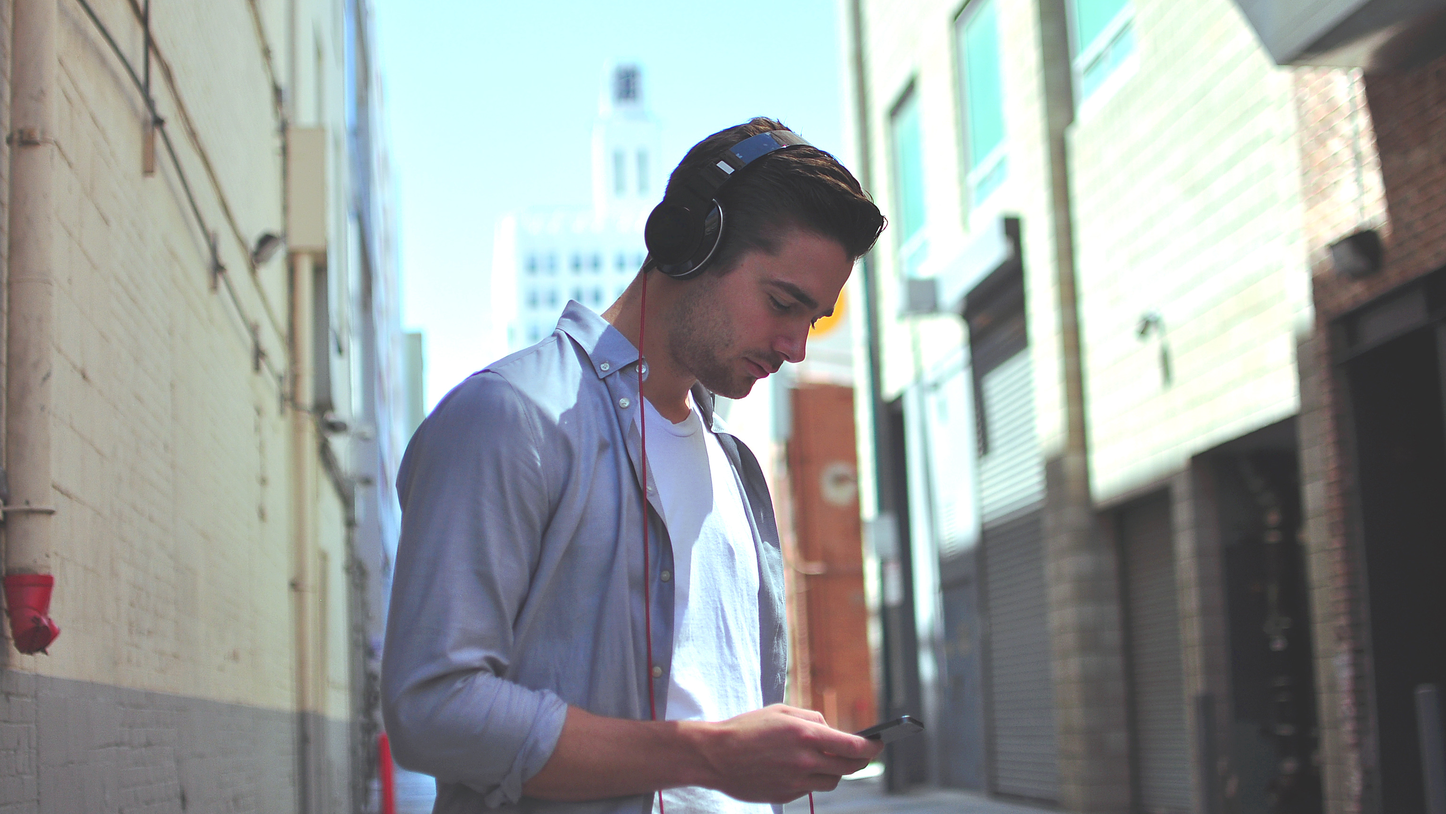
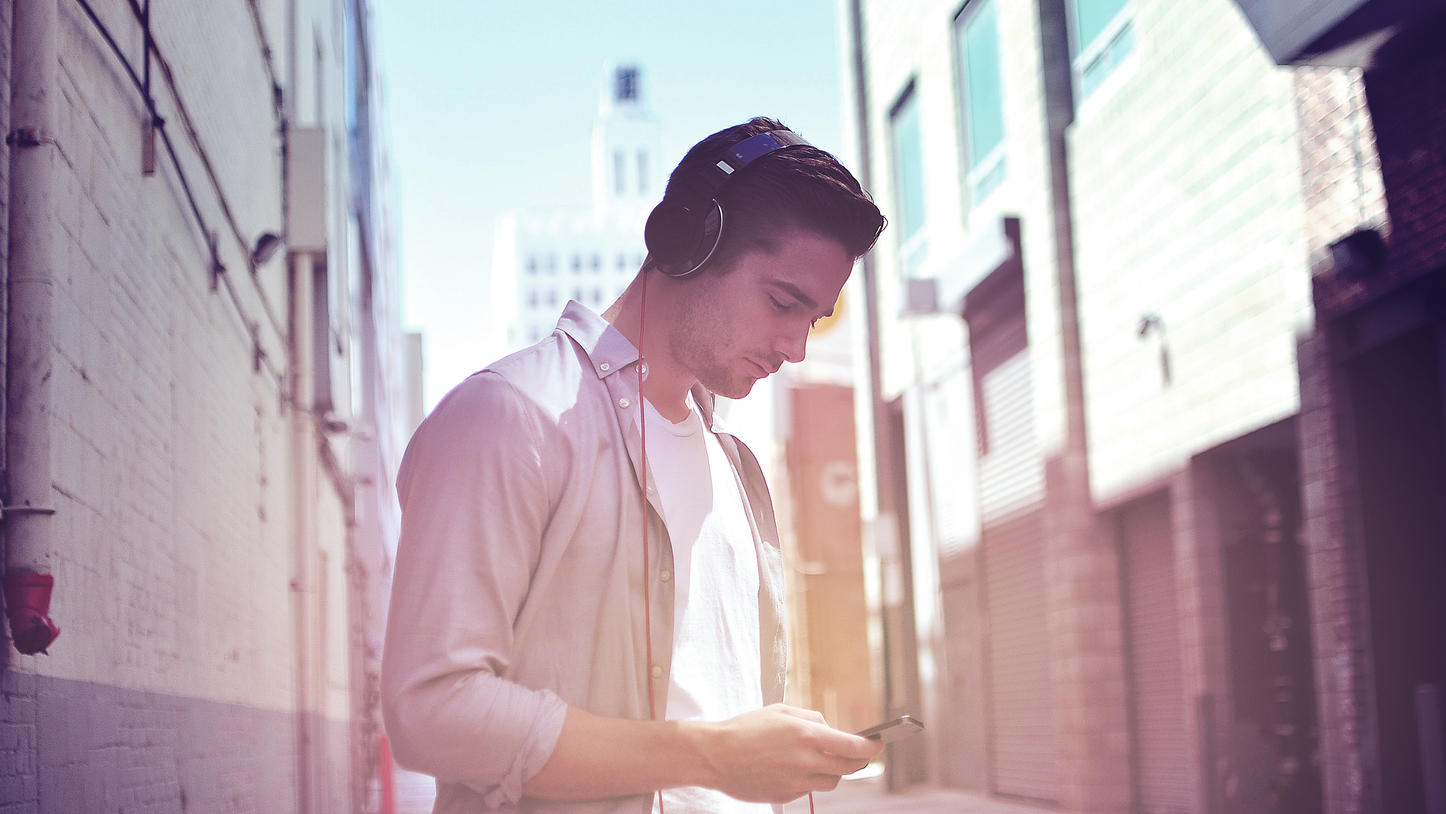
fixed nav links. edited sign up photo

diff --git a/app/assets/stylesheets/static_pages.css.scss b/app/assets/stylesheets/static_pages.css.scss
@@ -102,6 +102,61 @@ nav{
 		display: inline-block;
 }
 
+
+
+/*NAV LINKS*/
+.cl-effect-13{
+	font-family: 'Raleway', sans-serif;
+	color: white;
+	display: inline-block;
+	float:right;
+	margin-right: 15px;
+	margin-top: 10px;
+}
+.cl-effect-13 a {
+	-webkit-transition: color 0.3s;
+	-moz-transition: color 0.3s;
+	transition: color 0.3s;
+	text-decoration: none;
+}
+
+.cl-effect-13 a::before {
+	position: absolute;
+	top: 100%;
+	left: 50%;
+	color: transparent;
+	content: '•';
+	text-shadow: 0 0 transparent;
+	font-size: 1.2em;
+	-webkit-transition: text-shadow 0.3s, color 0.3s;
+	-moz-transition: text-shadow 0.3s, color 0.3s;
+	transition: text-shadow 0.3s, color 0.3s;
+	-webkit-transform: translateX(-50%);
+	-moz-transform: translateX(-50%);
+	transform: translateX(-50%);
+	pointer-events: none;
+}
+
+.cl-effect-13 a:hover::before,
+.cl-effect-13 a:focus::before {
+	color: #fff;
+	text-shadow: 10px 0 #fff, -10px 0 #fff;
+}
+
+.cl-effect-13 a:hover,
+.cl-effect-13 a:focus {
+	font-family: 'Raleway', sans-serif;
+	color: black;
+}
+
+
+/* END OF NAV LINKS*/
+
+
+
+
+
+
 @media only screen and (max-width: 444px) {
 
 
